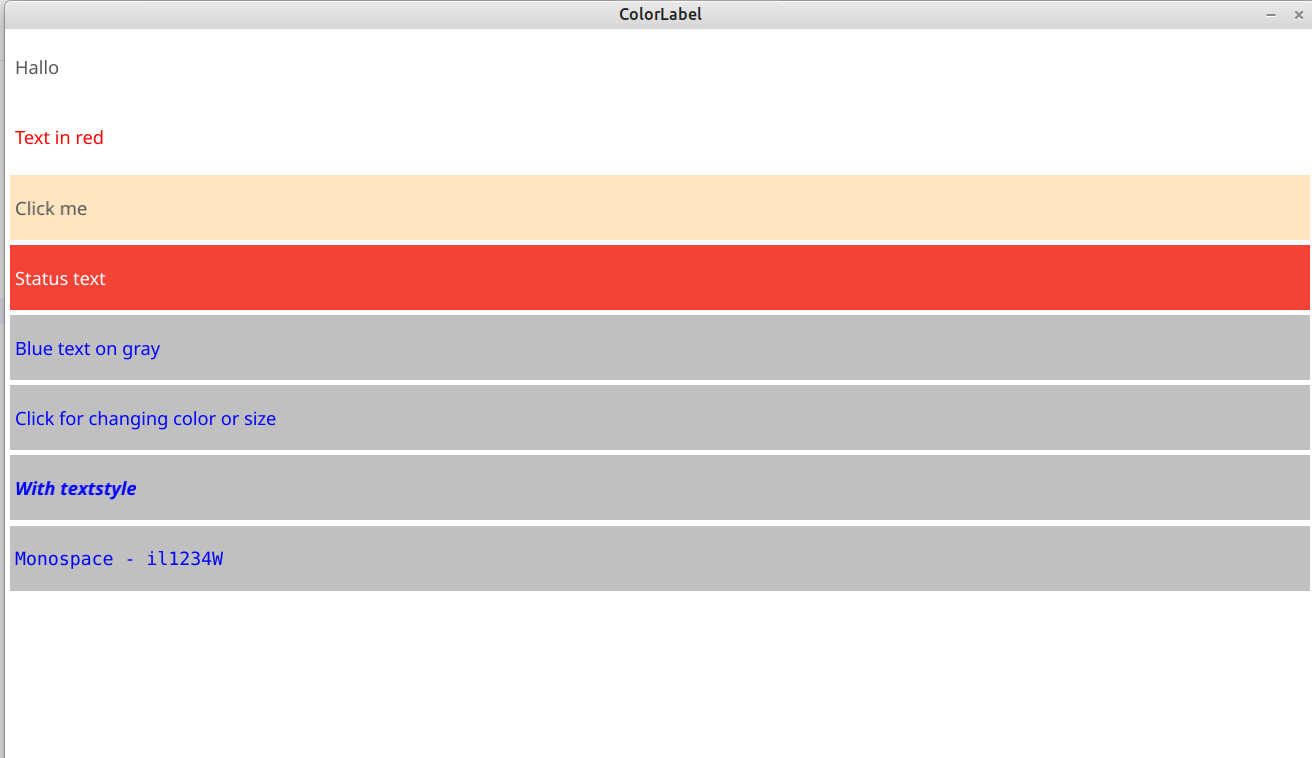
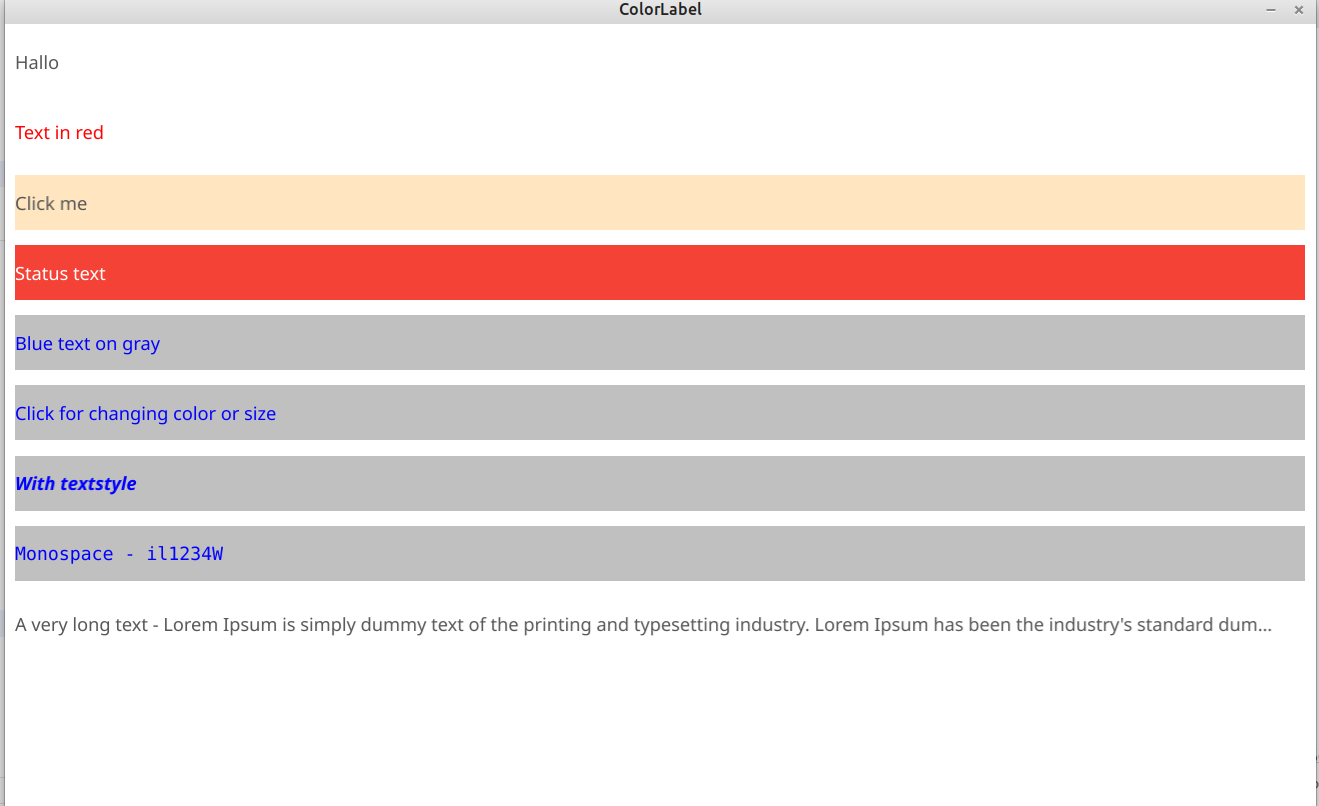
Truncate option added

Changed region(s): [[0.0, 0.2124, 1.0, 0.7889], [0.0, 0.0, 1.0, 0.091], [0.0, 0.1517, 0.0938, 0.1821]]

diff --git a/colorlabel.go b/colorlabel.go
@@ -24,6 +24,7 @@
 // You can use color names defined by Fyne theme or direct NRGBA values.
 // The labels can also be clicked (primary and secondary) and double clicked if needed.
 // You can also set a Text style for bold and italic and Monospace font.
+// Now it is also possible to set that too long text is truncated.
 //
 // Author: Reiner Pröls
 // Licence: MIT
@@ -36,7 +37,6 @@ import (
 
 	"fyne.io/fyne/v2"
 	"fyne.io/fyne/v2/canvas"
-	"fyne.io/fyne/v2/container"
 	"fyne.io/fyne/v2/driver/desktop"
 	"fyne.io/fyne/v2/theme"
 	"fyne.io/fyne/v2/widget"
@@ -48,6 +48,7 @@ var (
 	_ fyne.DoubleTappable    = (*ColorLabel)(nil)
 	_ fyne.SecondaryTappable = (*ColorLabel)(nil)
 	_ desktop.Mouseable      = (*ColorLabel)(nil)
+	_ fyne.WidgetRenderer    = (*ColorLabelRenderer)(nil)
 )
 
 // Color label text with color (text and background), also clickable if needed
@@ -60,13 +61,13 @@ var (
 
 type ColorLabel struct {
 	widget.BaseWidget
-	text *canvas.Text
-	bg   *canvas.Rectangle
 
+	fullText  string
 	bgColor   any
 	fgColor   any
 	textScale float32
 	textStyle *fyne.TextStyle
+	truncate  bool
 
 	OnTapped          func()
 	OnTappedSecondary func()
@@ -132,31 +133,79 @@ func NewColorLabel(s string, txtColor, backColor any, tScale float32) *ColorLabe
 		bgColor:   backColor,
 		fgColor:   txtColor,
 		textScale: tScale,
-		text:      canvas.NewText(s, getColor(txtColor)),
-		bg:        canvas.NewRectangle(getColor(backColor)),
+		fullText:  s,
+		textStyle: &fyne.TextStyle{},
 	}
 
-	colorLabel.text.TextSize = theme.TextSize() * tScale
-	if colorLabel.textStyle != nil {
-		colorLabel.text.TextStyle = *colorLabel.textStyle
-	}
 	colorLabel.ExtendBaseWidget(colorLabel)
-	fyne.CurrentApp().Settings().AddListener(func(settings fyne.Settings) {
-		colorLabel.text.Color = getColor(colorLabel.fgColor)
-		colorLabel.text.TextSize = theme.TextSize() * tScale
-		colorLabel.bg.FillColor = getColor(colorLabel.bgColor)
-		colorLabel.text.Refresh()
-		colorLabel.bg.Refresh()
-	})
+
+	/*
+
+		fyne.CurrentApp().Settings().AddListener(func(settings fyne.Settings) {
+			colorLabel.fgColor = getColor(colorLabel.fgColor)
+			colorLabel.bgColor = getColor(colorLabel.bgColor)
+			colorLabel.Refresh()
+		})
+	*/
 	return colorLabel
 }
 
 // Widget interface
 func (l *ColorLabel) CreateRenderer() fyne.WidgetRenderer {
-	return widget.NewSimpleRenderer(container.NewStack(
-		l.bg,
-		container.NewPadded(l.text),
-	))
+	t := canvas.NewText(l.fullText, getColor(l.fgColor))
+	b := canvas.NewRectangle(getColor(l.bgColor))
+	return &ColorLabelRenderer{
+		w:    l,
+		text: t,
+		bg:   b,
+		objs: []fyne.CanvasObject{b, t},
+	}
+}
+
+// ColorLabelRenderer implements:
+//   - fyne.WidgetRenderer
+type ColorLabelRenderer struct {
+	w    *ColorLabel
+	text *canvas.Text
+	bg   *canvas.Rectangle
+	objs []fyne.CanvasObject
+}
+
+// WidgetRenderer interface
+func (r *ColorLabelRenderer) Layout(size fyne.Size) {
+	pad := theme.Padding()
+	s := fyne.NewSize(size.Width-2*pad, size.Height-2*pad)
+	p := fyne.NewPos(pad, pad)
+	r.text.TextSize = theme.TextSize() * r.w.textScale
+	r.text.TextStyle = *r.w.textStyle
+	r.text.Text = r.w.truncateText(r.w.fullText, s.Width, r.text)
+
+	r.text.Resize(s)
+	r.bg.Resize(s)
+	r.text.Move(p)
+	r.bg.Move(p)
+}
+
+// WidgetRenderer interface
+func (r *ColorLabelRenderer) MinSize() fyne.Size {
+	h := r.text.MinSize().Height
+	return fyne.NewSize(0, h)
+}
+
+// WidgetRenderer interface
+func (r *ColorLabelRenderer) Refresh() {
+	r.text.Color = getColor(r.w.fgColor)
+	r.text.Refresh()
+	r.bg.FillColor = getColor(r.w.bgColor)
+	r.bg.Refresh()
+}
+
+// WidgetRenderer interface
+func (r *ColorLabelRenderer) Destroy() {
+}
+
+func (r *ColorLabelRenderer) Objects() []fyne.CanvasObject {
+	return r.objs
 }
 
 // Tappable interface
@@ -197,8 +246,30 @@ func (l *ColorLabel) GetLastKeyModifier() fyne.KeyModifier {
 
 // Set new text
 func (l *ColorLabel) SetText(s string) {
-	l.text.Text = s
-	l.text.Refresh()
+	l.fullText = s
+	l.Refresh()
+}
+
+func (l *ColorLabel) truncateText(s string, maxWidth float32, text *canvas.Text) string {
+	if !l.truncate {
+		return s
+	}
+	maxWidth -= theme.Padding() * 4
+	ellipsis := "…"
+	ellW := fyne.MeasureText(ellipsis, text.TextSize, text.TextStyle).Width
+
+	r := []rune(s)
+	if fyne.MeasureText(s, text.TextSize, text.TextStyle).Width <= maxWidth {
+		return s
+	}
+
+	for len(r) > 0 {
+		r = r[:len(r)-1]
+		if fyne.MeasureText(string(r), text.TextSize, text.TextStyle).Width+ellW <= maxWidth {
+			return string(r) + ellipsis
+		}
+	}
+	return ellipsis
 }
 
 // Set new text color
@@ -218,8 +289,8 @@ func (l *ColorLabel) SetTextColor(txtColor any) error {
 	default:
 		return errors.New("fyne.ThemeColorName or color.NRGBA required")
 	}
-	l.text.Color = getColor(txtColor)
-	l.text.Refresh()
+	l.fgColor = txtColor
+	l.Refresh()
 	return nil
 }
 
@@ -240,8 +311,8 @@ func (l *ColorLabel) SetBackgroundColor(backColor any) error {
 	default:
 		return errors.New("fyne.ThemeColorName or color.NRGBA required")
 	}
-	l.bg.FillColor = getColor(backColor)
-	l.bg.Refresh()
+	l.bgColor = backColor
+	l.Refresh()
 	return nil
 }
 
@@ -250,25 +321,28 @@ func (l *ColorLabel) SetTextScale(tScale float32) {
 	if tScale <= 0 {
 		tScale = 1
 	}
-	l.text.TextSize = theme.TextSize() * tScale
 	l.textScale = tScale
-	l.text.Refresh()
+	l.Refresh()
 }
 
 // Set a text style
 func (l *ColorLabel) SetTextStyle(textStyle *fyne.TextStyle) {
-	l.textStyle = textStyle
 	if textStyle != nil {
-		l.text.TextStyle = *textStyle
+		l.textStyle = textStyle
 	} else {
-		l.text.TextStyle = fyne.TextStyle{}
+		l.textStyle = &fyne.TextStyle{}
 	}
-	l.text.Refresh()
+	l.Refresh()
 }
 
 // Set text and text color
 // txtColor is NRGBA or fyne.ThemeColorName
 func (l *ColorLabel) SetTextWithColor(txt string, txtColor any) {
-	l.text.Text = txt
+	l.fullText = txt
 	l.SetTextColor(txtColor)
+}
+
+func (l *ColorLabel) SetTruncate(tr bool) {
+	l.truncate = tr
+	l.Refresh()
 }

diff --git a/example/main.go b/example/main.go
@@ -76,7 +76,11 @@ func main() {
 	label8 = colorlabel.NewColorLabel("Monospace - il1234W", color.NRGBA{R: 0, G: 0, B: 255, A: 255}, color.NRGBA{R: 192, G: 192, B: 192, A: 255}, 1.0)
 	label8.SetTextStyle(&fyne.TextStyle{Monospace: true})
 
-	vbox := container.NewGridWrap(fyne.NewSize(w.Canvas().Size().Width, 50), label1, label2, label3, label4, label5, label6, label7, label8)
+	var label9 *colorlabel.ColorLabel
+	label9 = colorlabel.NewColorLabel("A very long text - Lorem Ipsum is simply dummy text of the printing and typesetting industry. Lorem Ipsum has been the industry's standard dummy text ever since the 1500s, when an unknown printer took a galley of type and scrambled it to make a type specimen book. It has survived not only five centuries, but also the leap into electronic typesetting, remaining essentially unchanged. It was popularised in the 1960s with the release of Letraset sheets containing Lorem Ipsum passages, and more recently with desktop publishing software like Aldus PageMaker including versions of Lorem Ipsum.", "", "", 1.0)
+	label9.SetTruncate(true)
+
+	vbox := container.NewGridWrap(fyne.NewSize(w.Canvas().Size().Width, 50), label1, label2, label3, label4, label5, label6, label7, label8, label9)
 	w.SetContent(vbox)
 
 	w.ShowAndRun()

diff --git a/README.md b/README.md
@@ -2,7 +2,8 @@
 Implements a label with colored text and background as fyne widget.  
 You can use color names defined by Fyne theme or direct NRGBA values.  
 The labels can also be clicked (primary and secondary) and double clicked if needed.  
-You can also set a Text style for bold and italic and Monospace font.  
+You can also set a Text style for bold and italic and Monospace font. 
+Now it is also possible to set that too long text is truncated.  
 
 Author: Reiner Pröls  
 Licence: MIT  
@@ -85,11 +86,14 @@ func main() {
 	label8 = colorlabel.NewColorLabel("Monospace - il1234W", color.NRGBA{R: 0, G: 0, B: 255, A: 255}, color.NRGBA{R: 192, G: 192, B: 192, A: 255}, 1.0)
 	label8.SetTextStyle(&fyne.TextStyle{Monospace: true})
 
-	vbox := container.NewGridWrap(fyne.NewSize(w.Canvas().Size().Width, 50), label1, label2, label3, label4, label5, label6, label7, label8)
+	var label9 *colorlabel.ColorLabel
+	label9 = colorlabel.NewColorLabel("A very long text - Lorem Ipsum is simply dummy text of the printing and typesetting industry. Lorem Ipsum has been the industry's standard dummy text ever since the 1500s, when an unknown printer took a galley of type and scrambled it to make a type specimen book. It has survived not only five centuries, but also the leap into electronic typesetting, remaining essentially unchanged. It was popularised in the 1960s with the release of Letraset sheets containing Lorem Ipsum passages, and more recently with desktop publishing software like Aldus PageMaker including versions of Lorem Ipsum.", "", "", 1.0)
+	label9.SetTruncate(true)
+
+	vbox := container.NewGridWrap(fyne.NewSize(w.Canvas().Size().Width, 50), label1, label2, label3, label4, label5, label6, label7, label8, label9)
 	w.SetContent(vbox)
 
 	w.ShowAndRun()
-}
 }
 ```
 
@@ -123,8 +127,15 @@ import "github.com/bytemystery-com/colorlabel"
   - [func \(l \*ColorLabel\) SetTextScale\(tScale float32\)](<#ColorLabel.SetTextScale>)
   - [func \(l \*ColorLabel\) SetTextStyle\(textStyle \*fyne.TextStyle\)](<#ColorLabel.SetTextStyle>)
   - [func \(l \*ColorLabel\) SetTextWithColor\(txt string, txtColor any\)](<#ColorLabel.SetTextWithColor>)
+  - [func \(l \*ColorLabel\) SetTruncate\(tr bool\)](<#ColorLabel.SetTruncate>)
   - [func \(l \*ColorLabel\) Tapped\(ev \*fyne.PointEvent\)](<#ColorLabel.Tapped>)
   - [func \(l \*ColorLabel\) TappedSecondary\(\*fyne.PointEvent\)](<#ColorLabel.TappedSecondary>)
+- [type ColorLabelRenderer](<#ColorLabelRenderer>)
+  - [func \(r \*ColorLabelRenderer\) Destroy\(\)](<#ColorLabelRenderer.Destroy>)
+  - [func \(r \*ColorLabelRenderer\) Layout\(size fyne.Size\)](<#ColorLabelRenderer.Layout>)
+  - [func \(r \*ColorLabelRenderer\) MinSize\(\) fyne.Size](<#ColorLabelRenderer.MinSize>)
+  - [func \(r \*ColorLabelRenderer\) Objects\(\) \[\]fyne.CanvasObject](<#ColorLabelRenderer.Objects>)
+  - [func \(r \*ColorLabelRenderer\) Refresh\(\)](<#ColorLabelRenderer.Refresh>)
 
 
 <a name="ColorLabel"></a>
@@ -251,6 +262,15 @@ func (l *ColorLabel) SetTextWithColor(txt string, txtColor any)
 
 Set text and text color txtColor is NRGBA or fyne.ThemeColorName
 
+<a name="ColorLabel.SetTruncate"></a>
+### func \(\*ColorLabel\) SetTruncate
+
+```go
+func (l *ColorLabel) SetTruncate(tr bool)
+```
+
+
+
 <a name="ColorLabel.Tapped"></a>
 ### func \(\*ColorLabel\) Tapped
 
@@ -268,6 +288,64 @@ func (l *ColorLabel) TappedSecondary(*fyne.PointEvent)
 ```
 
 SecondaryTappable interface
+
+<a name="ColorLabelRenderer"></a>
+## type ColorLabelRenderer
+
+ColorLabelRenderer implements:
+
+- fyne.WidgetRenderer
+
+```go
+type ColorLabelRenderer struct {
+    // contains filtered or unexported fields
+}
+```
+
+<a name="ColorLabelRenderer.Destroy"></a>
+### func \(\*ColorLabelRenderer\) Destroy
+
+```go
+func (r *ColorLabelRenderer) Destroy()
+```
+
+WidgetRenderer interface
+
+<a name="ColorLabelRenderer.Layout"></a>
+### func \(\*ColorLabelRenderer\) Layout
+
+```go
+func (r *ColorLabelRenderer) Layout(size fyne.Size)
+```
+
+WidgetRenderer interface
+
+<a name="ColorLabelRenderer.MinSize"></a>
+### func \(\*ColorLabelRenderer\) MinSize
+
+```go
+func (r *ColorLabelRenderer) MinSize() fyne.Size
+```
+
+WidgetRenderer interface
+
+<a name="ColorLabelRenderer.Objects"></a>
+### func \(\*ColorLabelRenderer\) Objects
+
+```go
+func (r *ColorLabelRenderer) Objects() []fyne.CanvasObject
+```
+
+
+
+<a name="ColorLabelRenderer.Refresh"></a>
+### func \(\*ColorLabelRenderer\) Refresh
+
+```go
+func (r *ColorLabelRenderer) Refresh()
+```
+
+WidgetRenderer interface
 
 Generated by [gomarkdoc](<https://github.com/princjef/gomarkdoc>)
 
